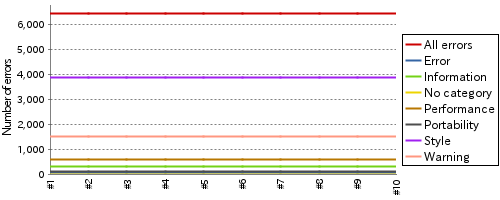
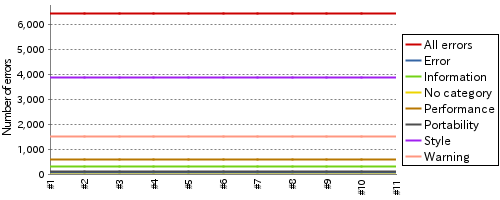
update report

diff --git a/index.md b/index.md
@@ -2,7 +2,7 @@
 layout: default
 ---
 # Jenkins CI report For HRG
-## Build and test report (2015/07/07 01:28:04)
+## Build and test report (2015/07/07 02:28:14)
 ### Build Status
 ___
 ![Build Status](http://jenkinshrg.github.io/images/badge.svg)
@@ -37,6 +37,7 @@ UNSTABLE
   
 |Status|Time|Duration|Changes|Build|Test|Note|
 |---|---|---|---|---|---|---|
+|![Jenkins Icon](http://jenkinshrg.github.io/images/24x24/yellow.png)UNSTABLE|2015/07/07 02:00|28 min.||[BUILD](https://drive.google.com/file/d/0B54sHwaxmuM4d3hlSzZDaFhuQnM/view?usp=drivesdk) |[CONSOLE](https://drive.google.com/file/d/0B54sHwaxmuM4X2NOU0RnTG5Md0E/view?usp=drivesdk) [IMAGE](https://drive.google.com/file/d/0B54sHwaxmuM4RUZTajg2YVZEVzA/edit?usp=drivesdk) [VIDEO](https://drive.google.com/file/d/0B54sHwaxmuM4OHJDNF8zdnB4Tmc/edit?usp=drivesdk) |STOP NORMAL|
 |![Jenkins Icon](http://jenkinshrg.github.io/images/24x24/yellow.png)UNSTABLE|2015/07/07 01:00|28 min.||[BUILD](https://drive.google.com/file/d/0B54sHwaxmuM4SC1wbi11QmVORWc/view?usp=drivesdk) |[CONSOLE](https://drive.google.com/file/d/0B54sHwaxmuM4NUhVTVBjSmhZWFU/view?usp=drivesdk) [IMAGE](https://drive.google.com/file/d/0B54sHwaxmuM4LXpnV0dNckZHUUE/edit?usp=drivesdk) [VIDEO](https://drive.google.com/file/d/0B54sHwaxmuM4RERSZGRCMWdHd2M/edit?usp=drivesdk) |STOP NORMAL|
 |![Jenkins Icon](http://jenkinshrg.github.io/images/24x24/yellow.png)UNSTABLE|2015/07/07 00:00|28 min.||[BUILD](https://drive.google.com/file/d/0B54sHwaxmuM4RFU4TTlLbzhtbkE/view?usp=drivesdk) |[CONSOLE](https://drive.google.com/file/d/0B54sHwaxmuM4cExJNFF5NFk0dzA/view?usp=drivesdk) [IMAGE](https://drive.google.com/file/d/0B54sHwaxmuM4VFZFc0c5NEZ0SHM/edit?usp=drivesdk) [VIDEO](https://drive.google.com/file/d/0B54sHwaxmuM4bFVTazFxYWJTVDA/edit?usp=drivesdk) |STOP NORMAL|
 |![Jenkins Icon](http://jenkinshrg.github.io/images/24x24/yellow.png)UNSTABLE|2015/07/06 23:00|28 min.||[BUILD](https://drive.google.com/file/d/0B54sHwaxmuM4SGV6cjFpQUh5MXM/view?usp=drivesdk) |[CONSOLE](https://drive.google.com/file/d/0B54sHwaxmuM4WVdXMExoaEVHSVE/view?usp=drivesdk) [IMAGE](https://drive.google.com/file/d/0B54sHwaxmuM4dmpLcEgzQ1ZhNFk/edit?usp=drivesdk) [VIDEO](https://drive.google.com/file/d/0B54sHwaxmuM4R0FIMEhpelI3V0E/edit?usp=drivesdk) |STOP NORMAL|
